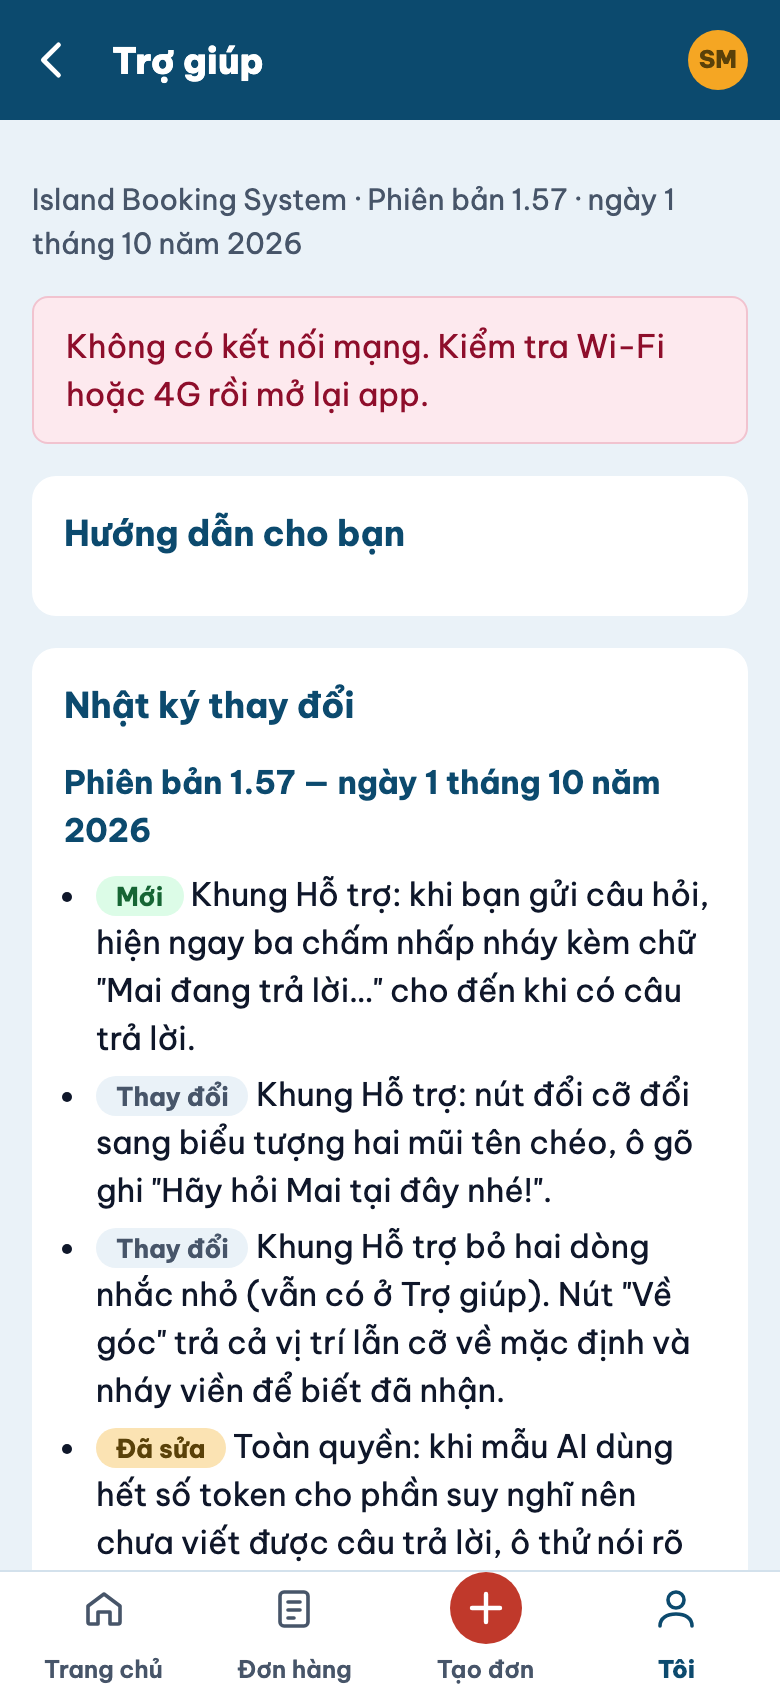
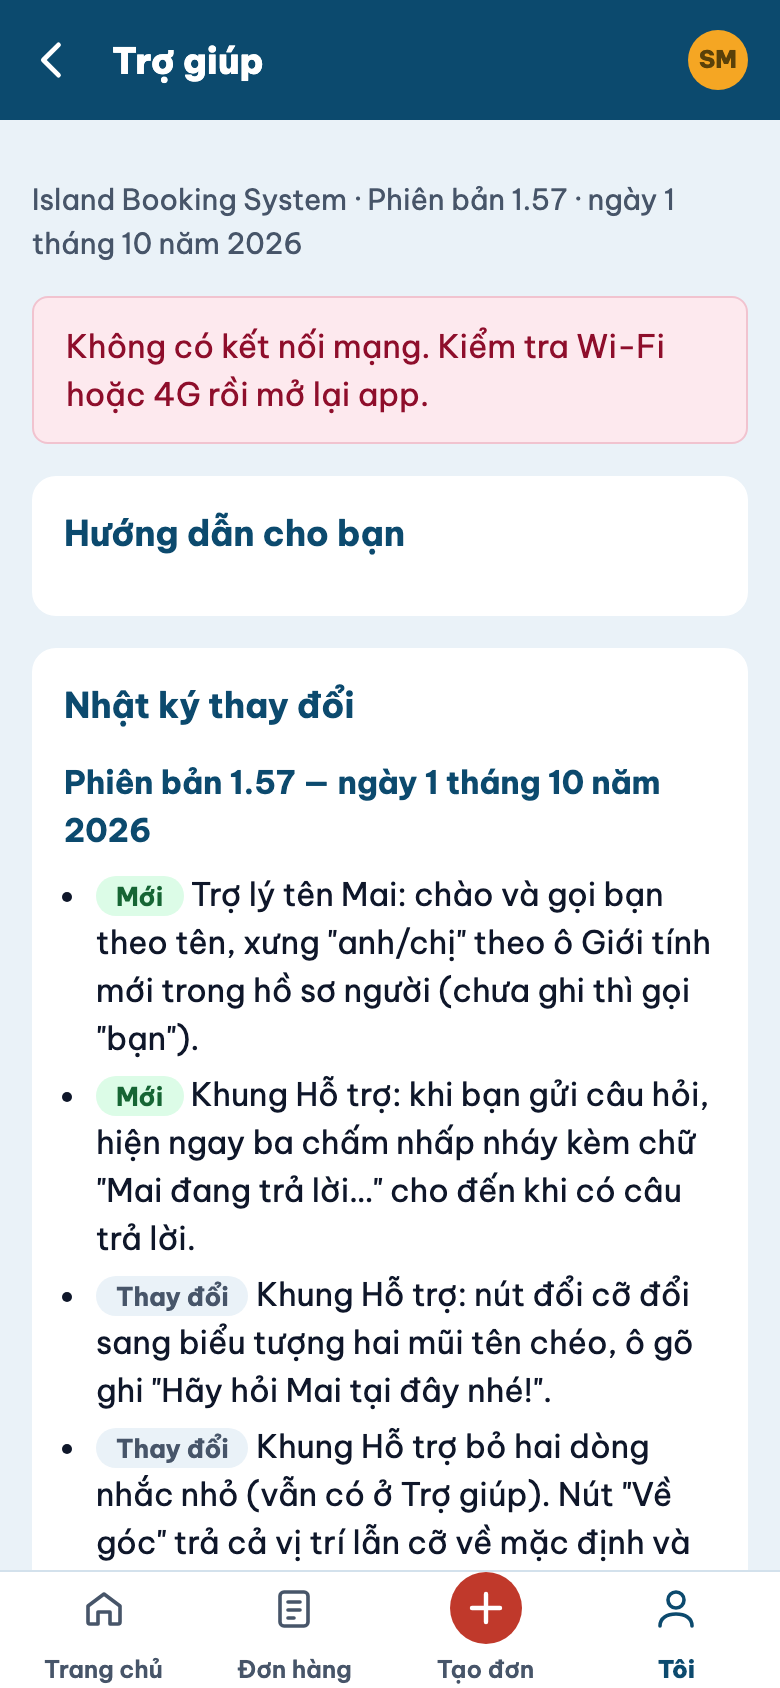
Nhật ký phiên bản 1.57: dòng trợ lý Mai gọi tên + ô Giới tính

Changed region(s): [[0.1231, 0.5237, 0.9231, 0.9242], [0.0615, 0.7393, 0.0923, 0.7701]]

diff --git a/src/shared/changelog.ts b/src/shared/changelog.ts
@@ -11,11 +11,13 @@ export interface ReleaseNote { readonly version: string; readonly date: string; 
 /** Mới nhất ở ĐẦU. */
 export const CHANGELOG: readonly ReleaseNote[] = [
   {
-    // Khung Hỗ trợ: biểu tượng đổi cỡ, bong bóng "đang trả lời", chữ gợi ý; ô thử báo riêng khi mẫu AI hết token cho phần suy nghĩ. Không migration.
+    // Khung Hỗ trợ: biểu tượng đổi cỡ, bong bóng "đang trả lời", chữ gợi ý; ô thử báo riêng khi mẫu AI hết token cho phần suy nghĩ.
+    // ADR-0084 (trợ lý Mai gọi tên, ô Giới tính): có migration 0064 (số tạm — 0061, 0063 ở nhánh khác).
     // Số "1.57" = 1.56 + 1 lúc thi công (2026-10-01); nhánh khác gộp trước thì đánh lại số.
     version: "1.57",
     date: "2026-10-01",
     items: [
+      { kind: "moi", text: "Trợ lý tên Mai: chào và gọi bạn theo tên, xưng \"anh/chị\" theo ô Giới tính mới trong hồ sơ người (chưa ghi thì gọi \"bạn\")." },
       { kind: "moi", text: "Khung Hỗ trợ: khi bạn gửi câu hỏi, hiện ngay ba chấm nhấp nháy kèm chữ \"Mai đang trả lời…\" cho đến khi có câu trả lời." },
       { kind: "doi", text: "Khung Hỗ trợ: nút đổi cỡ đổi sang biểu tượng hai mũi tên chéo, ô gõ ghi \"Hãy hỏi Mai tại đây nhé!\"." },
       { kind: "doi", text: "Khung Hỗ trợ bỏ hai dòng nhắc nhỏ (vẫn có ở Trợ giúp). Nút \"Về góc\" trả cả vị trí lẫn cỡ về mặc định và nháy viền để biết đã nhận." },
